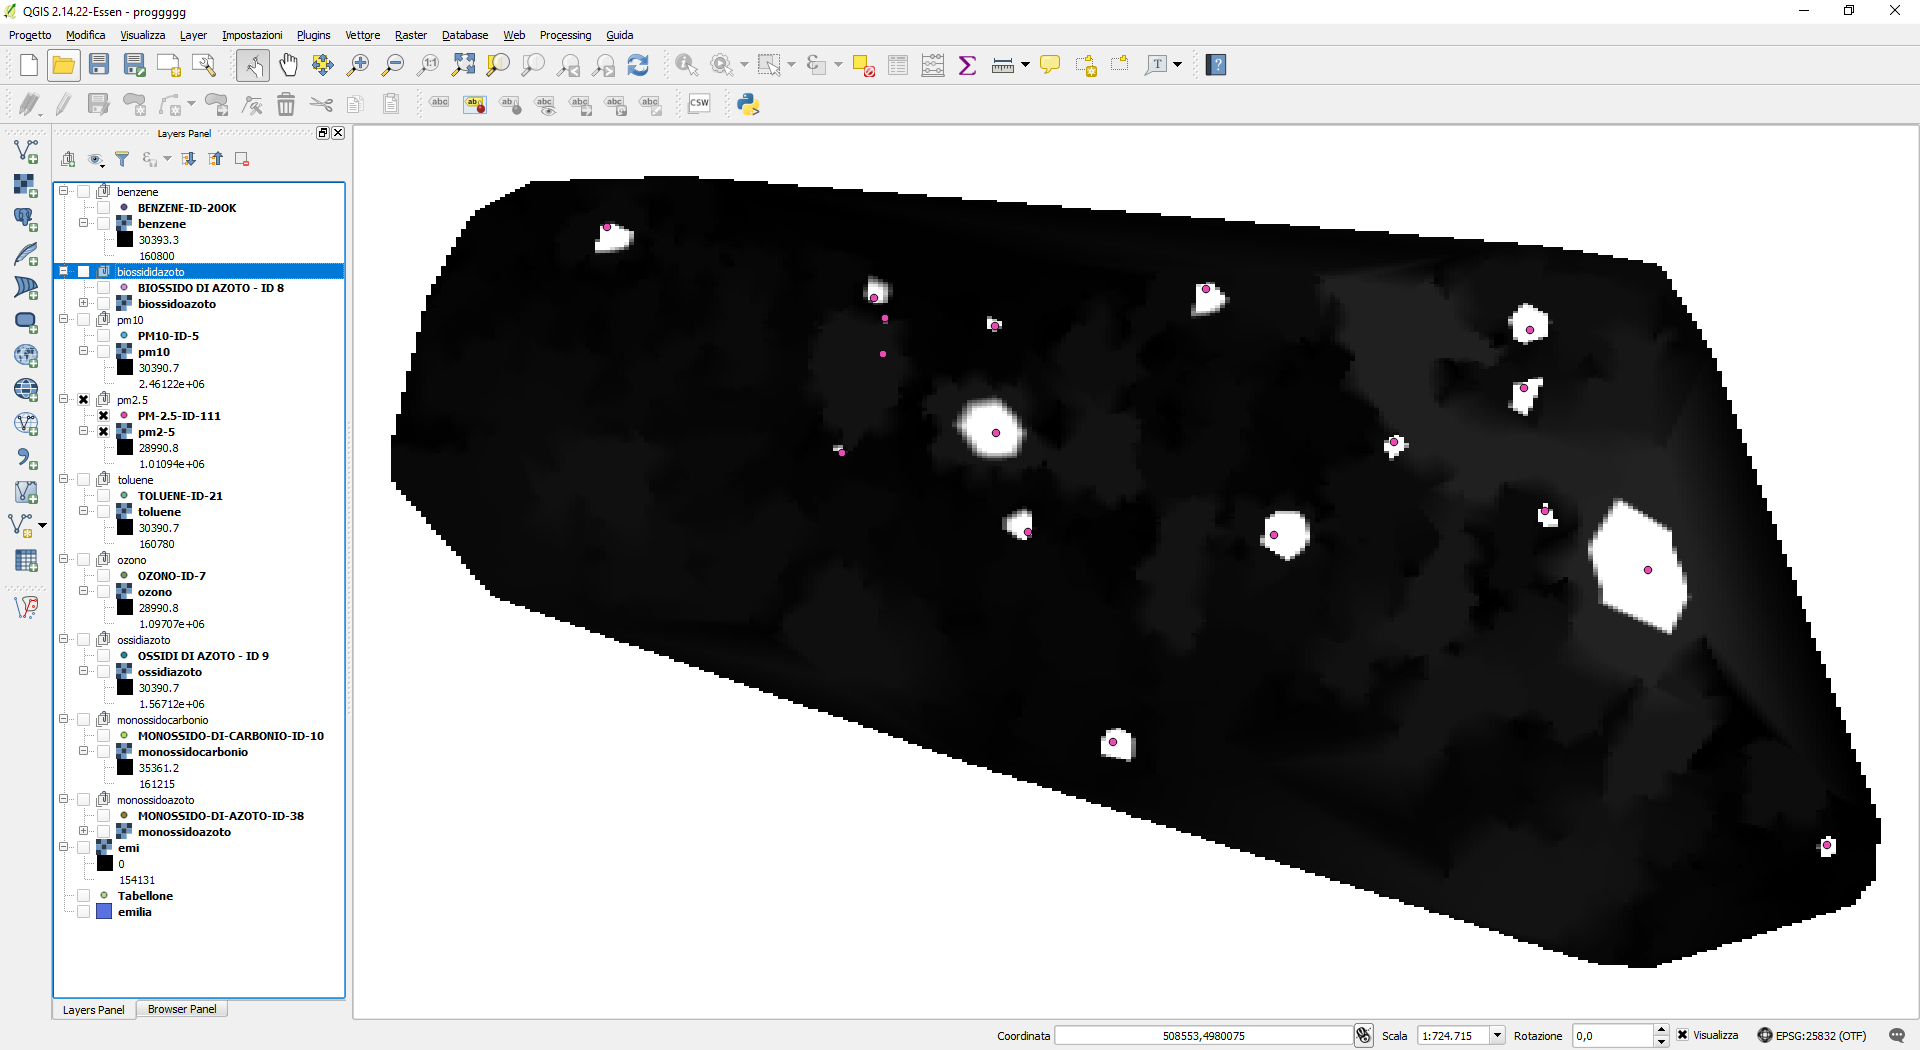
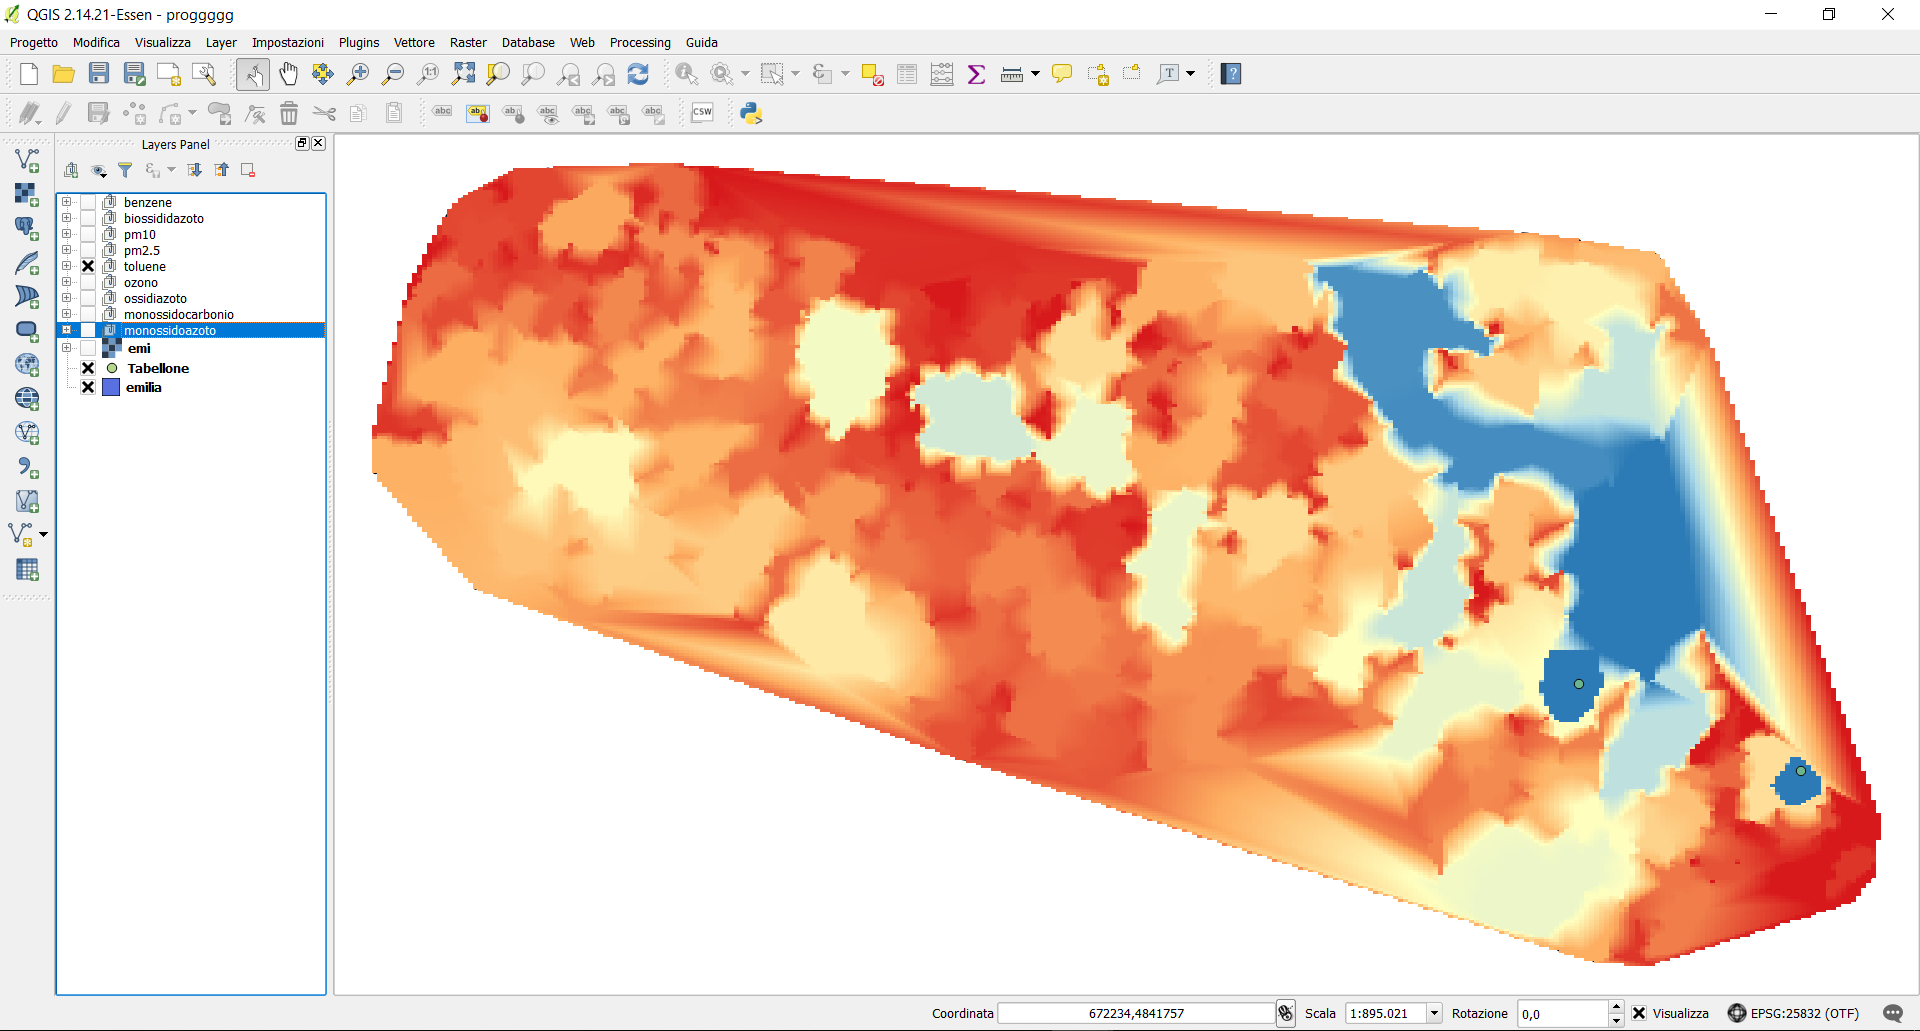
a
Aggiornamento

diff --git a/pages/qgiswork.html b/pages/qgiswork.html
@@ -93,38 +93,85 @@
 
 
                 <h1>QGis</h1>
-                
+
+                <p>Nella seconda fase abbiamo utilizzato il software QGIS V 2.14.21.
+                    Con esso abbiamo elaborato i dati ricavati dal lavoro effettuato in precedenza su Excel.
+                    Per prima cosa abbiamo caricato il file CSV che contiene i campi descriti inn precedenza.
+                </p>
+                <br>
+
                 <img  class="img-fluid"  src="../img/screen/1.PNG">
-                
+
+                <br>
+                <br>
+                <p>Dopodichè, abbiamo caricato lo shape file Reg_2016_WGS84.shp</p>
+                <br>
+                <br>
+
                 <img  class="img-fluid"  src="../img/screen/2.PNG">
+
+                <br>
+                <br>
+                <p>Dal quale, attraverso una query, in particolare digitando "COD_REG" = "8", abbiamo selezionato la regione Emilia-Romagna</p>
+                <br>
+                <br>
 
                 <img  class="img-fluid"  src="../img/screen/3.PNG">
 
+                <br>
+
                 <img  class="img-fluid"  src="../img/screen/4.PNG">
+
+                <br>
 
                 <img  class="img-fluid"  src="../img/screen/5.PNG">
 
+                <br>
+
                 <img  class="img-fluid"  src="../img/screen/6.PNG">
+
+                <br>
+                <br>
+                <p>Una volta fatto ciò, abbiamo caricato i file CSV relativi ai singoli parametri, così da visualizzare le varie stazioni affette da quel particolare parametro.
+                Poi abbiamo eseguito l'interpolazione per metterli in evidenza.</p>
+                <br>
+                <br>
 
                 <img  class="img-fluid"  src="../img/screen/7.PNG">
 
+                <br>
+
                 <img  class="img-fluid"  src="../img/screen/8.PNG">
+
+                <br>
 
                 <img  class="img-fluid"  src="../img/screen/9.PNG">
 
+                <br>
+
                 <img  class="img-fluid"  src="../img/screen/10.PNG">
+
+                <br>
 
                 <img  class="img-fluid"  src="../img/screen/11.PNG">
 
+                <br>
+
                 <img  class="img-fluid"  src="../img/screen/12.PNG">
+
+                <br>
 
                 <img  class="img-fluid"  src="../img/screen/13.PNG">
 
+                <br>
+
                 <img  class="img-fluid"  src="../img/screen/14.PNG">
+
+                <br>
 
                 <img  class="img-fluid"  src="../img/screen/15.PNG">
 
-                <img  class="img-fluid"  src="../img/screen/16.PNG">
+
               
 
 

diff --git a/index.html b/index.html
@@ -47,10 +47,12 @@
 
             <!--  <img class="emilia" src="img/emiliaa.png">-->
 
+            <br>
             <h1>Inquinamento Emilia Romagna</h1>
             <h2>Progetto Informatica Territoriale</h2>
 
             <h4>
+                <br>
                 <span>
                     <img class="unimol" src="img/unimol.png">
                 </span> Università degli Studi del Molise
@@ -71,6 +73,7 @@
 
         <div class="col-sm-12">
         <h5>
+            <br>
             <span style="font-weight:bold">A cura di:</span>
             <span> Piera Elena La Rocca, Martina Fantini, Mattia Bellotti, Ludovico Mariani</span>
         </h5>

diff --git a/css/exelstyle.css b/css/exelstyle.css
@@ -4,6 +4,7 @@ body{
 .col-sm-12 {
     text-align: center;
     margin-top: 10vh;
+    font-size: 25px;
 
 }
 
@@ -16,3 +17,4 @@ body{
 .img-fluid{
     margin-bottom: 10px;
 }
+
